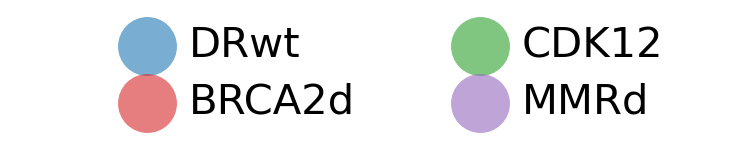
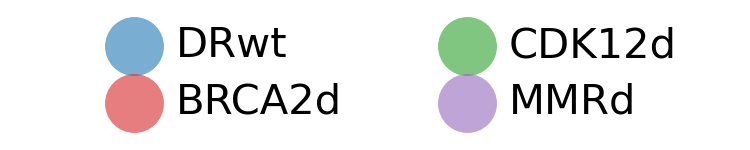
Add files via upload

Changed region(s): [[0.1227, 0.1067, 0.4907, 0.9067], [0.5827, 0.1067, 0.92, 0.9067]]

diff --git a/figures/fig4/umaps_for_pc_sigs.py b/figures/fig4/umaps_for_pc_sigs.py
@@ -253,7 +253,7 @@ ax.axis('off')
 plt.grid(b=False, which='both')
 plt.scatter([], [], c=blue, alpha=0.6, s=min_ccf*10, label="DRwt", marker='o', linewidth=0)
 plt.scatter([], [], c=red, alpha=0.6, s=min_ccf*10, label="BRCA2d", marker='o', linewidth=0)
-plt.scatter([], [], c=green, alpha=0.6, s=min_ccf*10, label="CDK12", marker='o', linewidth=0)
+plt.scatter([], [], c=green, alpha=0.6, s=min_ccf*10, label="CDK12d", marker='o', linewidth=0)
 plt.scatter([], [], c=purple, alpha=0.6, s=min_ccf*10, label="MMRd", marker='o', linewidth=0)
 plt.legend(loc='center', ncol=2, borderaxespad=0., fontsize=6, labelspacing=0.4, handletextpad=0, borderpad=0.3, handlelength=2, framealpha=0, markerscale=0.6)
 output = os.path.join(figdir, "umap_gene_legend.png")
